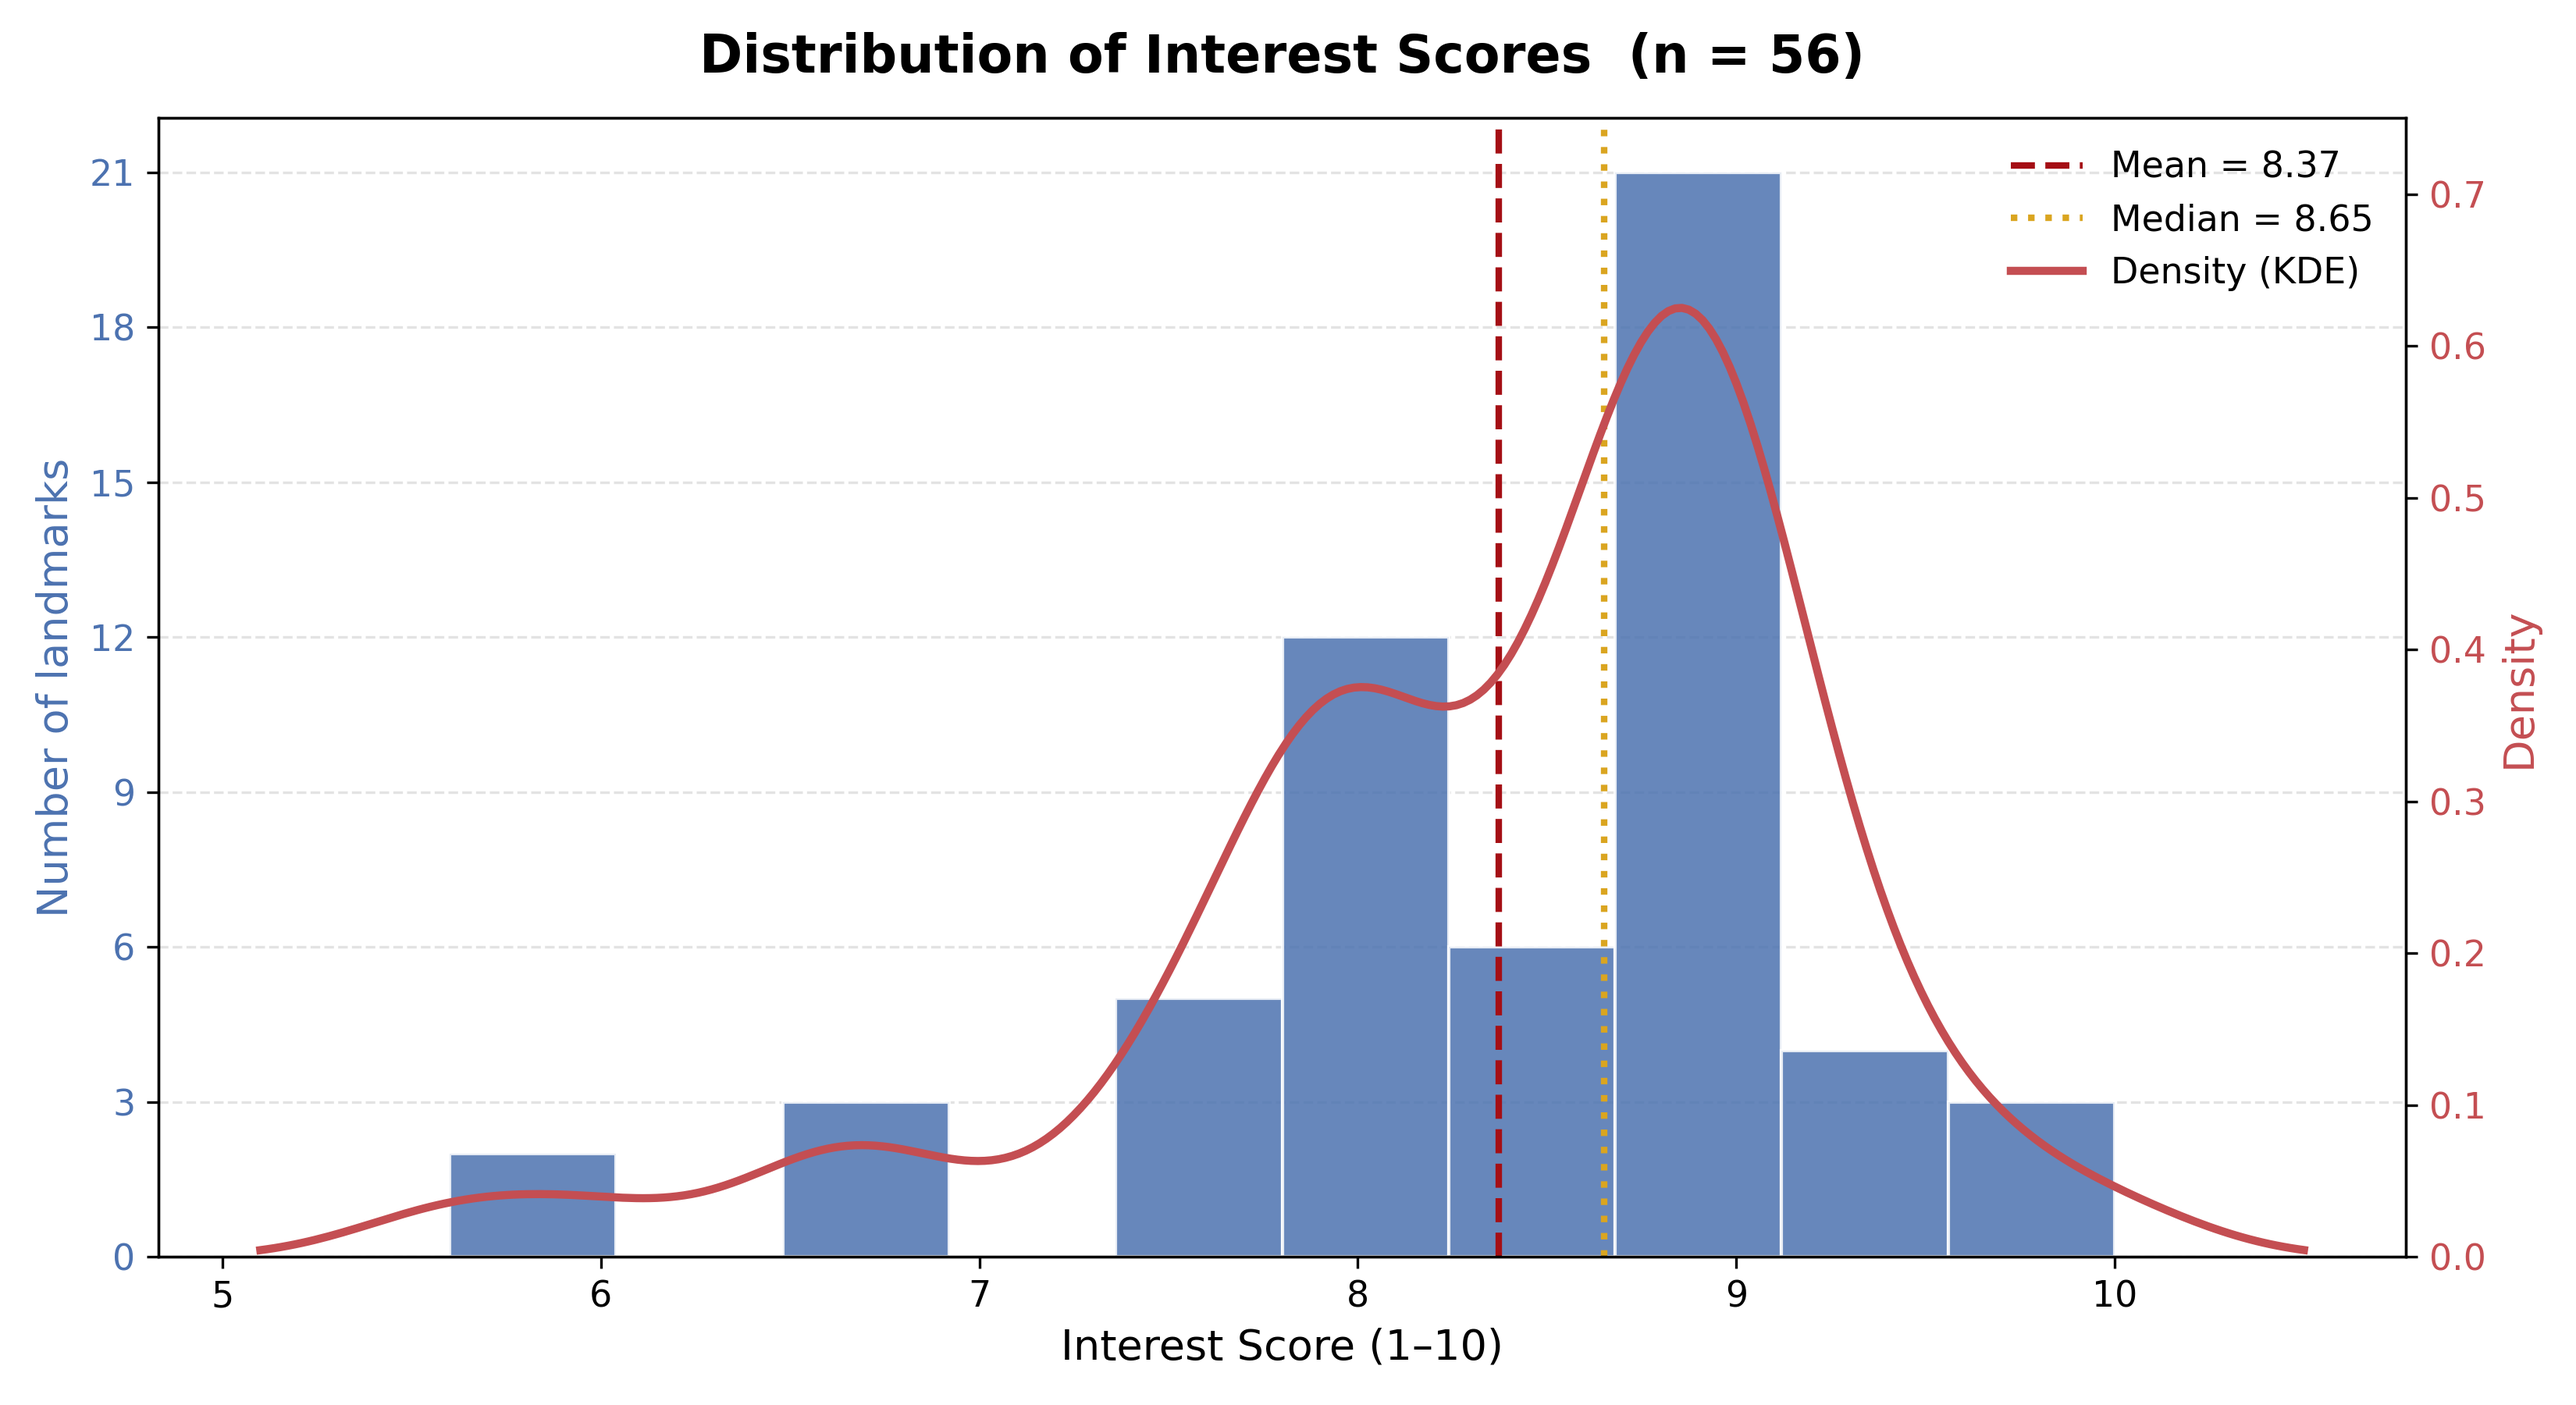
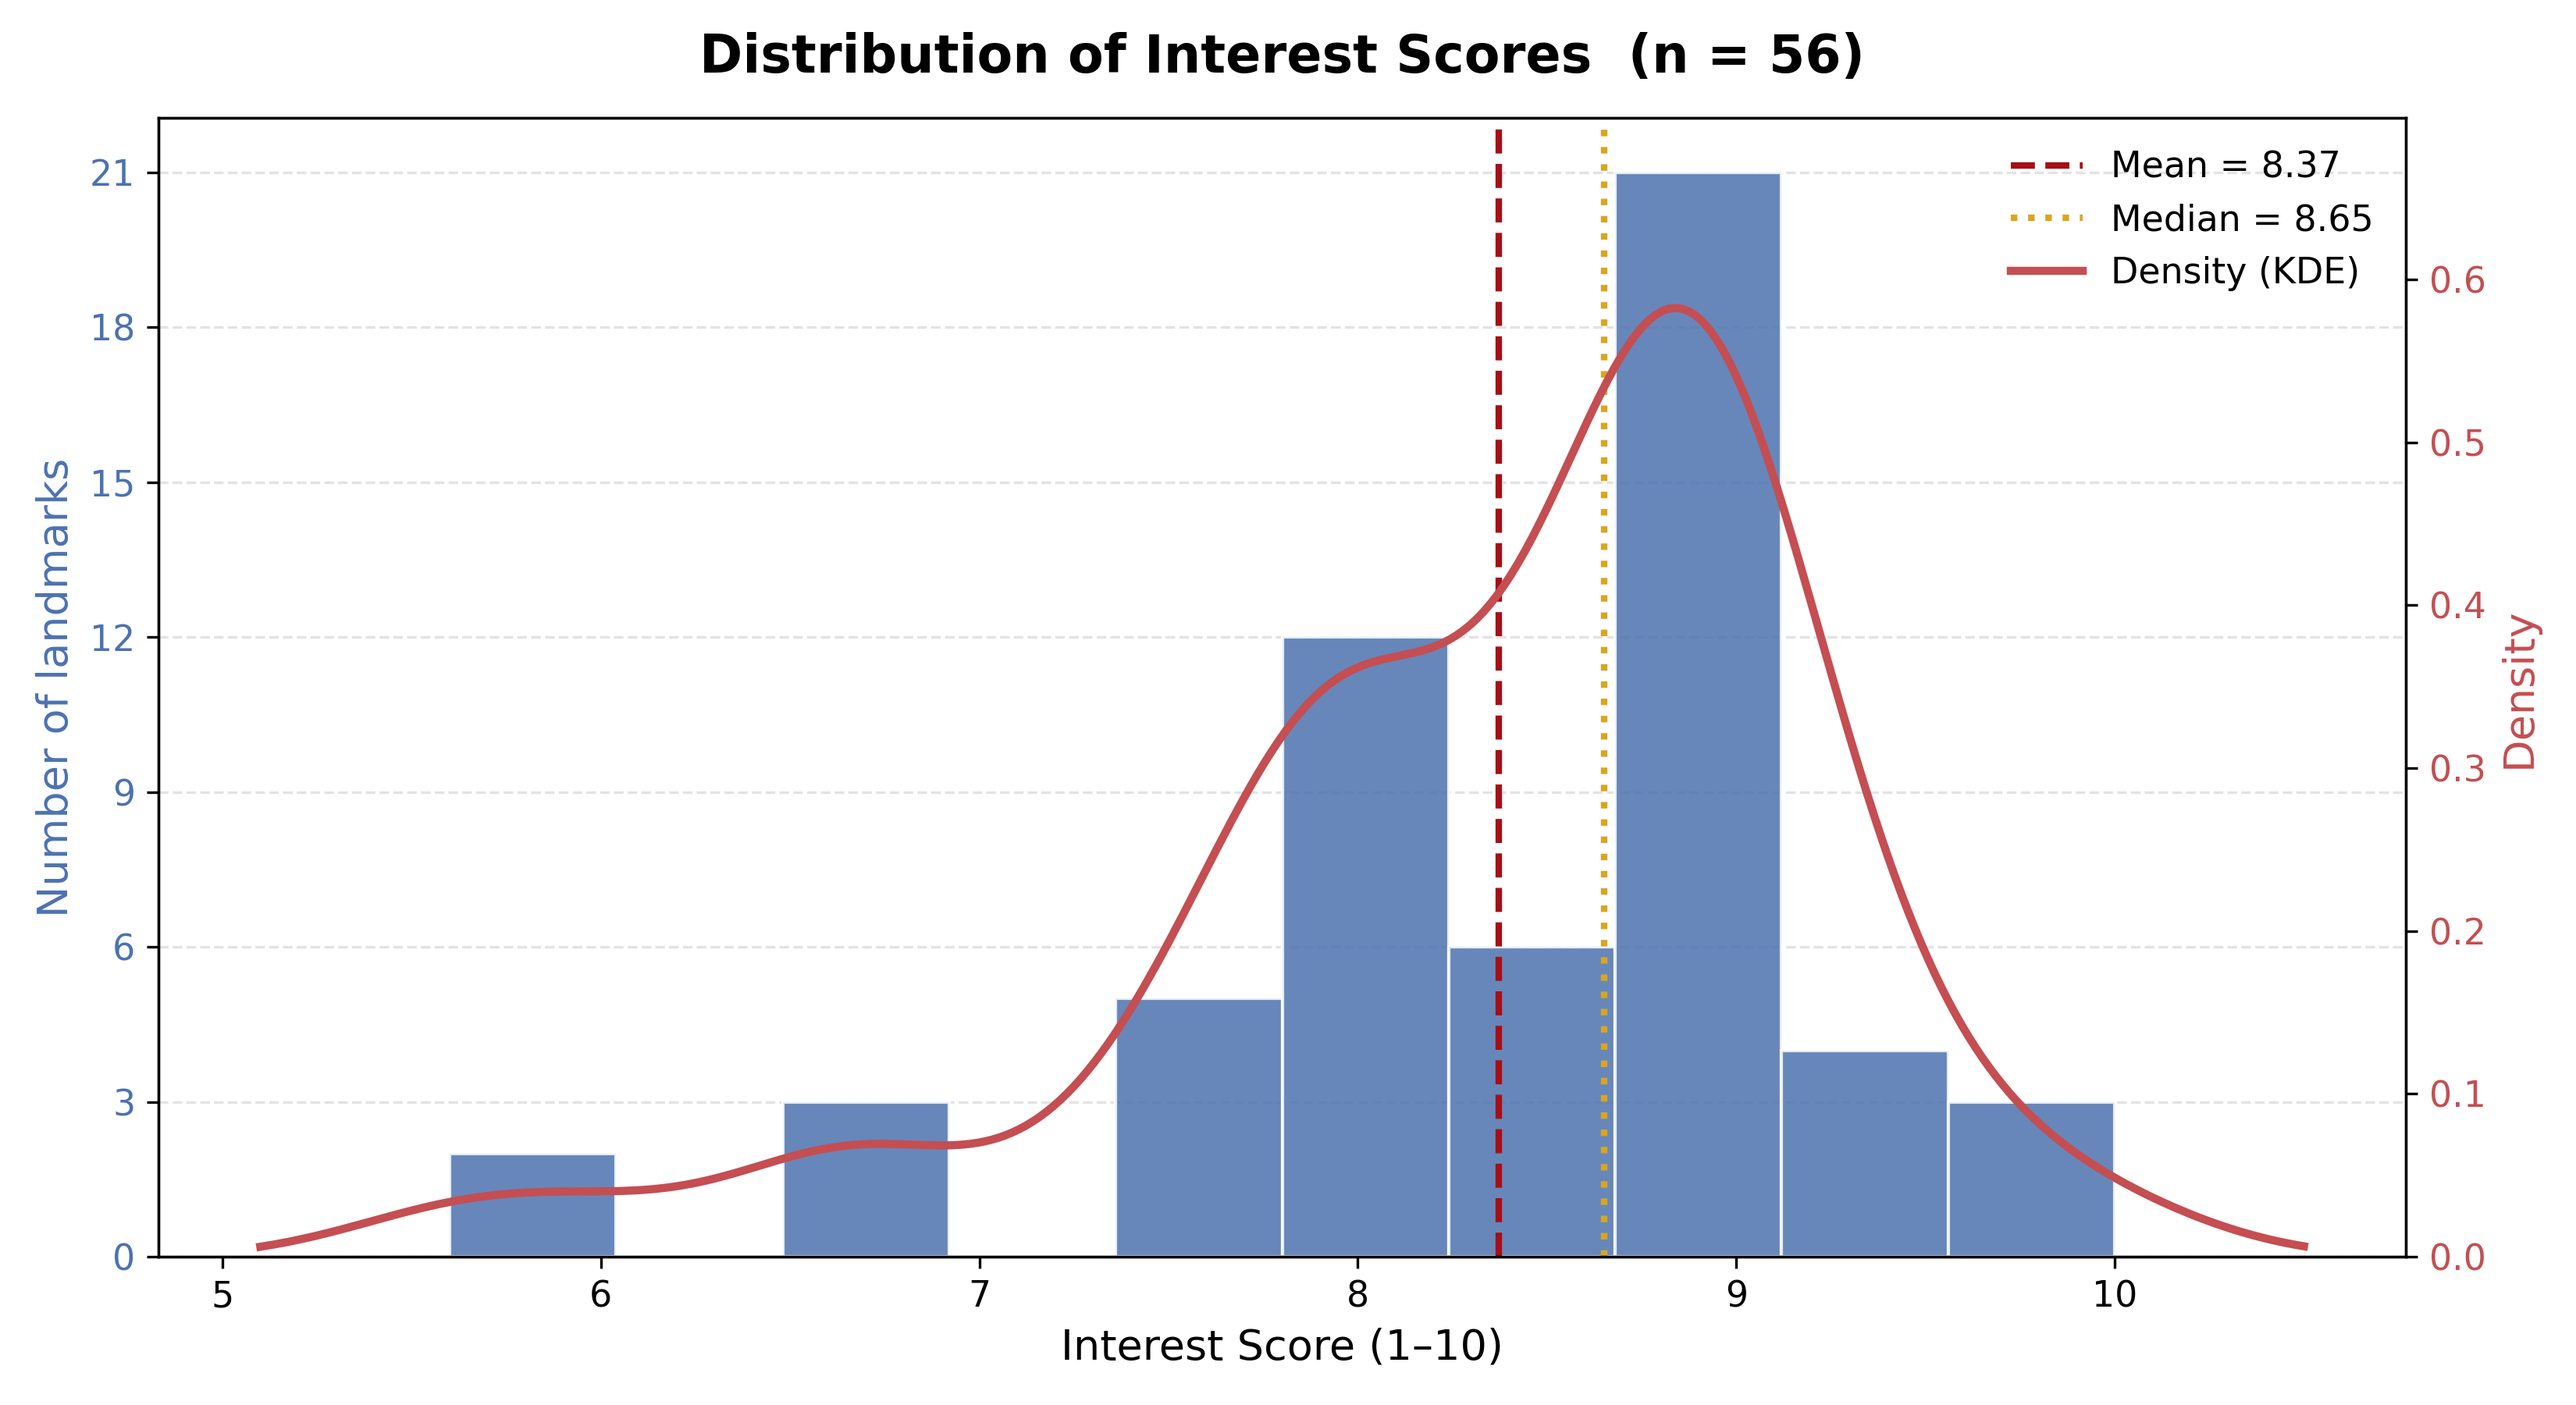
fix and improve

diff --git a/algiers-lib/plots.py b/algiers-lib/plots.py
@@ -1,26 +1,14 @@
-"""
-landmark_analysis.py
-====================
-Analyse and visualise landmarks/attractions in Algiers.
-
-Usage
------
-    python landmark_analysis.py                         # uses default paths
-    python landmark_analysis.py --csv data.csv --out ./figures
-    python landmark_analysis.py --show                  # display in addition to saving
-"""
-
 from __future__ import annotations
 
 import argparse
 from pathlib import Path
-from typing import Final
+from typing import Callable, Final
 
 import matplotlib.pyplot as plt
 import matplotlib.ticker as mticker
+from matplotlib.figure import Figure
 import numpy as np
 import pandas as pd
-from scipy.stats import gaussian_kde
 
 __all__ = [
     "load_landmark_data",
@@ -78,19 +66,40 @@ _ANNOTATION_FONTSIZE: Final[int] = 11
 
 
 def load_landmark_data(csv_path: str | Path) -> pd.DataFrame:
-    """Load landmark data from *csv_path* and normalise column names."""
+    """Load landmark data from *csv_path* and normalise column names.
+
+    Args:
+        csv_path: Path to the landmark CSV file.
+
+    Returns:
+        Normalised landmark data.
+    """
     df = pd.read_csv(csv_path, encoding="utf-8")
     df.columns = df.columns.str.strip().str.lower()
     return df
 
 
 def get_unique_landmarks(df: pd.DataFrame) -> pd.DataFrame:
-    """Return a deduplicated DataFrame with one row per landmark ID."""
+    """Return a deduplicated DataFrame with one row per landmark ID.
+
+    Args:
+        df: Landmark data that may contain duplicate rows.
+
+    Returns:
+        Deduplicated landmark data indexed by landmark ID.
+    """
     return df.drop_duplicates(subset="id")
 
 
 def count_landmarks_per_category(df: pd.DataFrame) -> pd.DataFrame:
-    """Count unique landmarks per category, preserving *CATEGORY_ORDER*."""
+    """Count unique landmarks per category, preserving *CATEGORY_ORDER*.
+
+    Args:
+        df: Landmark data to count by category.
+
+    Returns:
+        Category counts for unique landmarks, ordered by *CATEGORY_ORDER*.
+    """
     unique = get_unique_landmarks(df)
     counts = (
         unique.groupby("category")
@@ -104,16 +113,48 @@ def count_landmarks_per_category(df: pd.DataFrame) -> pd.DataFrame:
 
 
 def _numeric_column(series: pd.Series) -> np.ndarray:
-    """Coerce *series* to float, dropping NaN values, and return a NumPy array."""
+    """Coerce *series* to float, drop NaN values, and return a NumPy array.
+
+    Args:
+        series: Series of values that should be converted to numeric.
+
+    Returns:
+        Numeric values from the series as a float array.
+    """
     return pd.to_numeric(series, errors="coerce").dropna().to_numpy(dtype=float)
 
 
+def _kernel_density_estimate(values: np.ndarray, x: np.ndarray, bandwidth: float = 0.3) -> np.ndarray:
+    """Estimate a Gaussian kernel density on the specified grid.
+
+    Args:
+        values: Data values used to build the kernel density.
+        x: Points at which to evaluate the density.
+        bandwidth: Smoothing bandwidth for the Gaussian kernel.
+
+    Returns:
+        Density values evaluated at *x*.
+    """
+    if values.size == 0:
+        return np.zeros_like(x)
+
+    diff = x[:, None] - values[None, :]
+    kernels = np.exp(-0.5 * (diff / bandwidth) ** 2)
+    return np.sum(kernels, axis=1) / (len(values) * bandwidth * np.sqrt(2 * np.pi))
+
+
 def _save_or_show(
-    fig: plt.Figure,
+    fig: Figure,
     output_path: str | Path | None,
     show: bool,
 ) -> None:
-    """Save *fig* to *output_path* and/or display it, then close."""
+    """Save *fig* to *output_path* and/or display it, then close.
+
+    Args:
+        fig: Figure object to save or display.
+        output_path: Destination path for the saved figure. If None, the figure is not saved.
+        show: Whether to display the figure after generating it.
+    """
     if output_path is not None:
         path = Path(output_path)
         path.parent.mkdir(parents=True, exist_ok=True)
@@ -131,9 +172,15 @@ def plot_landmark_category_counts(
     output_path: str | Path | None = None,
     show: bool = False,
 ) -> None:
-    """Plot a bar chart of unique landmark counts per category."""
+    """Plot a bar chart of unique landmark counts per category.
+
+    Args:
+        df: Landmark data used to compute category counts.
+        output_path: Path to save the generated figure. If None, the figure is not saved.
+        show: Whether to display the figure after creation.
+    """
     counts = count_landmarks_per_category(df)
-    labels = [CATEGORY_LABELS.get(c, c.title()) for c in counts["category"]]
+    labels: list[str] = [CATEGORY_LABELS.get(c, str(c)) for c in counts["category"]]
     values = counts["count"].tolist()
     colors = [CATEGORY_COLORS.get(c, CATEGORY_COLORS["unknown"]) for c in counts["category"]]
 
@@ -173,14 +220,19 @@ def plot_interest_score_distribution(
     output_path: str | Path | None = None,
     show: bool = False,
 ) -> None:
-    """Plot a histogram with KDE overlay of landmark interest scores."""
+    """Plot a histogram with KDE overlay of landmark interest scores.
+
+    Args:
+        df: Landmark data from which unique interest scores are extracted.
+        output_path: Path to save the generated figure. If None, the figure is not saved.
+        show: Whether to display the figure after creation.
+    """
     scores = _numeric_column(get_unique_landmarks(df)["interest_score"])
     mean_score = float(np.mean(scores))
     median_score = float(np.median(scores))
 
-    kde = gaussian_kde(scores, bw_method=0.3)
     x = np.linspace(scores.min() - 0.5, scores.max() + 0.5, 300)
-    density = kde(x)
+    density = _kernel_density_estimate(scores, x, bandwidth=0.3)
 
     fig, ax = plt.subplots(figsize=(11, 6))
     ax.hist(
@@ -236,7 +288,13 @@ def plot_visit_duration_by_category(
     output_path: str | Path | None = None,
     show: bool = False,
 ) -> None:
-    """Plot boxplots of recommended visit durations grouped by category."""
+    """Plot boxplots of recommended visit durations grouped by category.
+
+    Args:
+        df: Landmark data used to compute visit duration distributions.
+        output_path: Path to save the generated figure. If None, the figure is not saved.
+        show: Whether to display the figure after creation.
+    """
     unique = get_unique_landmarks(df)
     data = [
         _numeric_column(unique.loc[unique["category"] == cat, "visit_duration_minutes"]).tolist()
@@ -281,7 +339,13 @@ def plot_availability_heatmap(
     output_path: str | Path | None = None,
     show: bool = False,
 ) -> None:
-    """Plot a heatmap of landmark availability by day of week and category."""
+    """Plot a heatmap of landmark availability by day of week and category.
+
+    Args:
+        df: Landmark data with day and category availability information.
+        output_path: Path to save the generated figure. If None, the figure is not saved.
+        show: Whether to display the figure after creation.
+    """
     avail = df[["id", "day", "category"]].drop_duplicates()
     pivot = (
         avail.groupby(["day", "category"])
@@ -331,7 +395,7 @@ def plot_availability_heatmap(
 
 
 
-_FIGURES: Final[list[tuple[str, object]]] = [
+_FIGURES: Final[list[tuple[str, Callable[..., None]]]] = [
     ("landmarks_per_category.png", plot_landmark_category_counts),
     ("interest_score_distribution.png", plot_interest_score_distribution),
     ("visit_duration_by_category.png", plot_visit_duration_by_category),

diff --git a/algiers-lib/solvers/genetic_augmented_representation.py b/algiers-lib/solvers/genetic_augmented_representation.py
@@ -1,9 +1,11 @@
 from __future__ import annotations
 
-from typing import Optional
+from typing import Optional, cast
 from models.landmark import Landmark
 from models.problem import Problem
 from models.tour import Tour
+
+TimelineRow = tuple[float, float, float, float, float]
 
 
 class AugmentedRepresentation:
@@ -52,10 +54,14 @@ class AugmentedRepresentation:
         while guaranteeing that all subsequent visits and the return to the hotel
         still fit within their time windows and the overall time budget.
  
-        Args:
-            tour: A valid tour to convert. Must have a non-empty simulation result.
+        Parameters
+        ----------
+        tour : Tour
+            A valid tour to convert. Must have a non-empty simulation result.
  
-        Returns:
+        Returns
+        -------
+        AugmentedRepresentation
             AugmentedRepresentation with a fully computed timeline. If the tour
             has no visited landmarks, the timeline will be empty.
         """
@@ -98,7 +104,7 @@ class AugmentedRepresentation:
             max_shifts[index] = max_shift
             timeline[index][4] = max_shift
 
-        augmented.timeline = [tuple(entry) for entry in timeline]
+        augmented.timeline = cast(list[TimelineRow], [tuple(entry) for entry in timeline])
         return augmented
 
     @staticmethod
